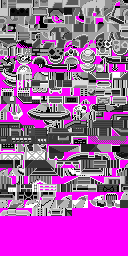
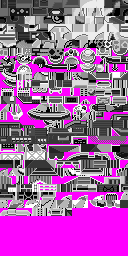
fixed bug on the tiles that are colored by primary: primary was not being loaded in order

Changed region(s): [[0.0, 0.0, 1.0, 0.1875]]

diff --git a/solver.py b/solver.py
@@ -76,28 +76,24 @@ import os
 def fits_palette(tile, palette_set):
     return all(c in palette_set for c in tile)
 
-def load_jasc_pal(pal_path: str) -> set:
+def load_jasc_pal(pal_path: str) -> list:
     """
-    Loads a JASC-PAL file and returns its colors as a set of (R, G, B) tuples,
-    matching the tile_color_sets format.
-    
-    :param pal_path: path to the .pal file
-    :return: set of (R, G, B) tuples
+    Loads a JASC-PAL file and returns its colors as a list of (R, G, B) tuples,
+    preserving order.
     """
-    colors = set()
     with open(pal_path, "r") as f:
         lines = [line.strip() for line in f.readlines()]
-    
-    # Validate header
+
     if lines[0] != "JASC-PAL" or lines[1] != "0100":
         raise ValueError(f"Invalid JASC-PAL file: {pal_path}")
-    
+
     num_colors = int(lines[2])
-    
+
+    colors = []
     for line in lines[3:3 + num_colors]:
         r, g, b = map(int, line.split())
-        colors.add((r, g, b))
-    
+        colors.append((r, g, b))
+
     return colors
 def load_jasc_pals_from_dir(pal_dir: str, max_index: int = 5) -> dict:
     """
@@ -186,6 +182,7 @@ def find_unmatched_tiles(tile_color_sets: list, palettes: dict) -> list:
     return unmatched
 
 from tiles_secondary import create_output_image
+
 def reorder_tiles(tiles_before: list, unmatched: list, assignment: list, pals_primary: dict) -> tuple:
     """
     Reorders tiles so matched ones come first, then unmatched.
@@ -268,12 +265,13 @@ def solve_secondary(path, path_primary, optimal):
     pals_primary=load_jasc_pals_from_dir(path_primary+"/palettes")
     #report = compare_tile_colors_to_palettes(tiles, pals_primary)
     unmatched = find_unmatched_tiles(tiles, pals_primary)
-
-    #for r in report["results"]:
-    #    if r["fits"]:
-    #        print(f"Tile {r['tile_index']}: fits palettes {r['matching_palettes']}")
-    #    else:
-    #        print(f"Tile {r['tile_index']}: no fit — closest: {r['closest_palette']}, missing: {r['missing_colors']}")
+    '''
+    for r in report["results"]:
+        if r["fits"]:
+            print(f"Tile {r['tile_index']}: fits palettes {r['matching_palettes']}")
+        #else:
+        #    print(f"Tile {r['tile_index']}: no fit — closest: {r['closest_palette']}, missing: {r['missing_colors']}")
+    '''
 
     #print(report["summary"])
 

diff --git a/pal_tiles.py b/pal_tiles.py
@@ -119,10 +119,10 @@ def export_indexed_image_secondary(img, assignment, palettes, out_dir):
     w, h = img.size
     tiles_x = w // TILE_SIZE
 
-    best_palette = max(
-        palettes[6:12],
-        key=lambda p: sum(1 for i, c in enumerate(p) if i and c != (0, 0, 0))
-    )
+    #best_palette = max(
+    #    palettes[6:12],
+    #    key=lambda p: sum(1 for i, c in enumerate(p) if i and c != (0, 0, 0))
+    #)
 
     composite = Image.new("P", (w, h))
     #composite.putpalette(build_pil_palette(best_palette))
@@ -130,7 +130,6 @@ def export_indexed_image_secondary(img, assignment, palettes, out_dir):
 
     for i, assigned_p in enumerate(assignment):
         palette = palettes[assigned_p]
-
         tx = (i % tiles_x) * TILE_SIZE
         ty = (i // tiles_x) * TILE_SIZE
 
@@ -139,6 +138,7 @@ def export_indexed_image_secondary(img, assignment, palettes, out_dir):
                 raw = img.getpixel((tx + x, ty + y))
 
                 idx = 0 if raw == MAGENTA else nearest_palette_index(raw, palette)
+                #idx = nearest_palette_index(raw, palette)
                 composite.putpixel((tx + x, ty + y), idx)
 
     composite.save(os.path.join(out_dir, "tiles.png"), bits=4)

diff --git a/compilers.py b/compilers.py
@@ -31,9 +31,11 @@ def compile_secondary(path, out_dir, path_primary=None, optimal=False):
         #img, tiles, assignment, pals_primary = result
         img, tiles, assignment, full_assignment, pals_primary = result
 
+        #print(pals_primary)
+
         img.save(os.path.join(out_dir, "debug.png"))
 
-        print(assignment)
+        #print(assignment)
         print(full_assignment)
 
         os.makedirs(out_dir, exist_ok=True)
@@ -60,7 +62,7 @@ def compile_secondary(path, out_dir, path_primary=None, optimal=False):
 
         #print(palettes)
         #print(pals_primary)
-        #join_palettes(palettes,pals_primary)
+        print(join_palettes(palettes,pals_primary))
         #assignment_new = [x + 6 for x in assignment]
 
         export_jasc(palettes, out_dir+"/palettes",False)
